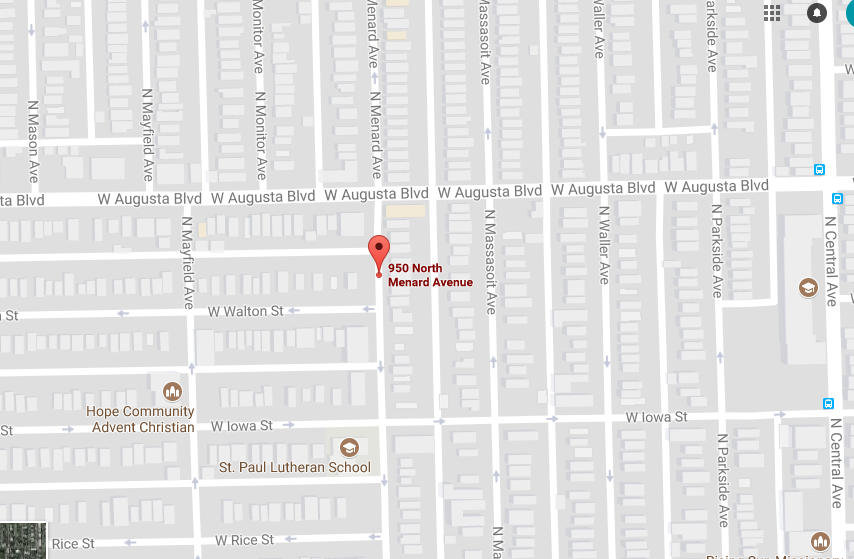
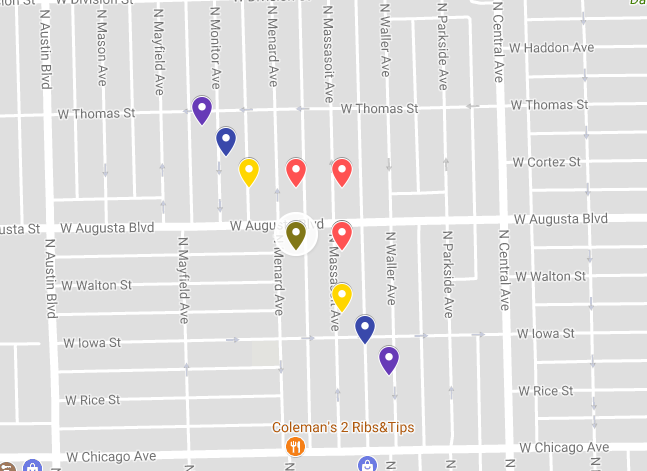
updated map

Changed region(s): [[0.0, 0.0, 1.0, 1.0]]

diff --git a/workbooks/wb-a-student-retention.md b/workbooks/wb-a-student-retention.md
@@ -994,5 +994,5 @@ for sensitivity in [0.001, 0.0015, 0.002]:
     Total of 175 instances of crime for 009XX N MENARD AVE, 33 of which were serious
     
 
-For reference, here's the block in question:
+For reference, here's the block in question (yellow, blue, and purple markers denote the inner, middle, and outer sensitivities):
 ![block](./menardblock.png)
